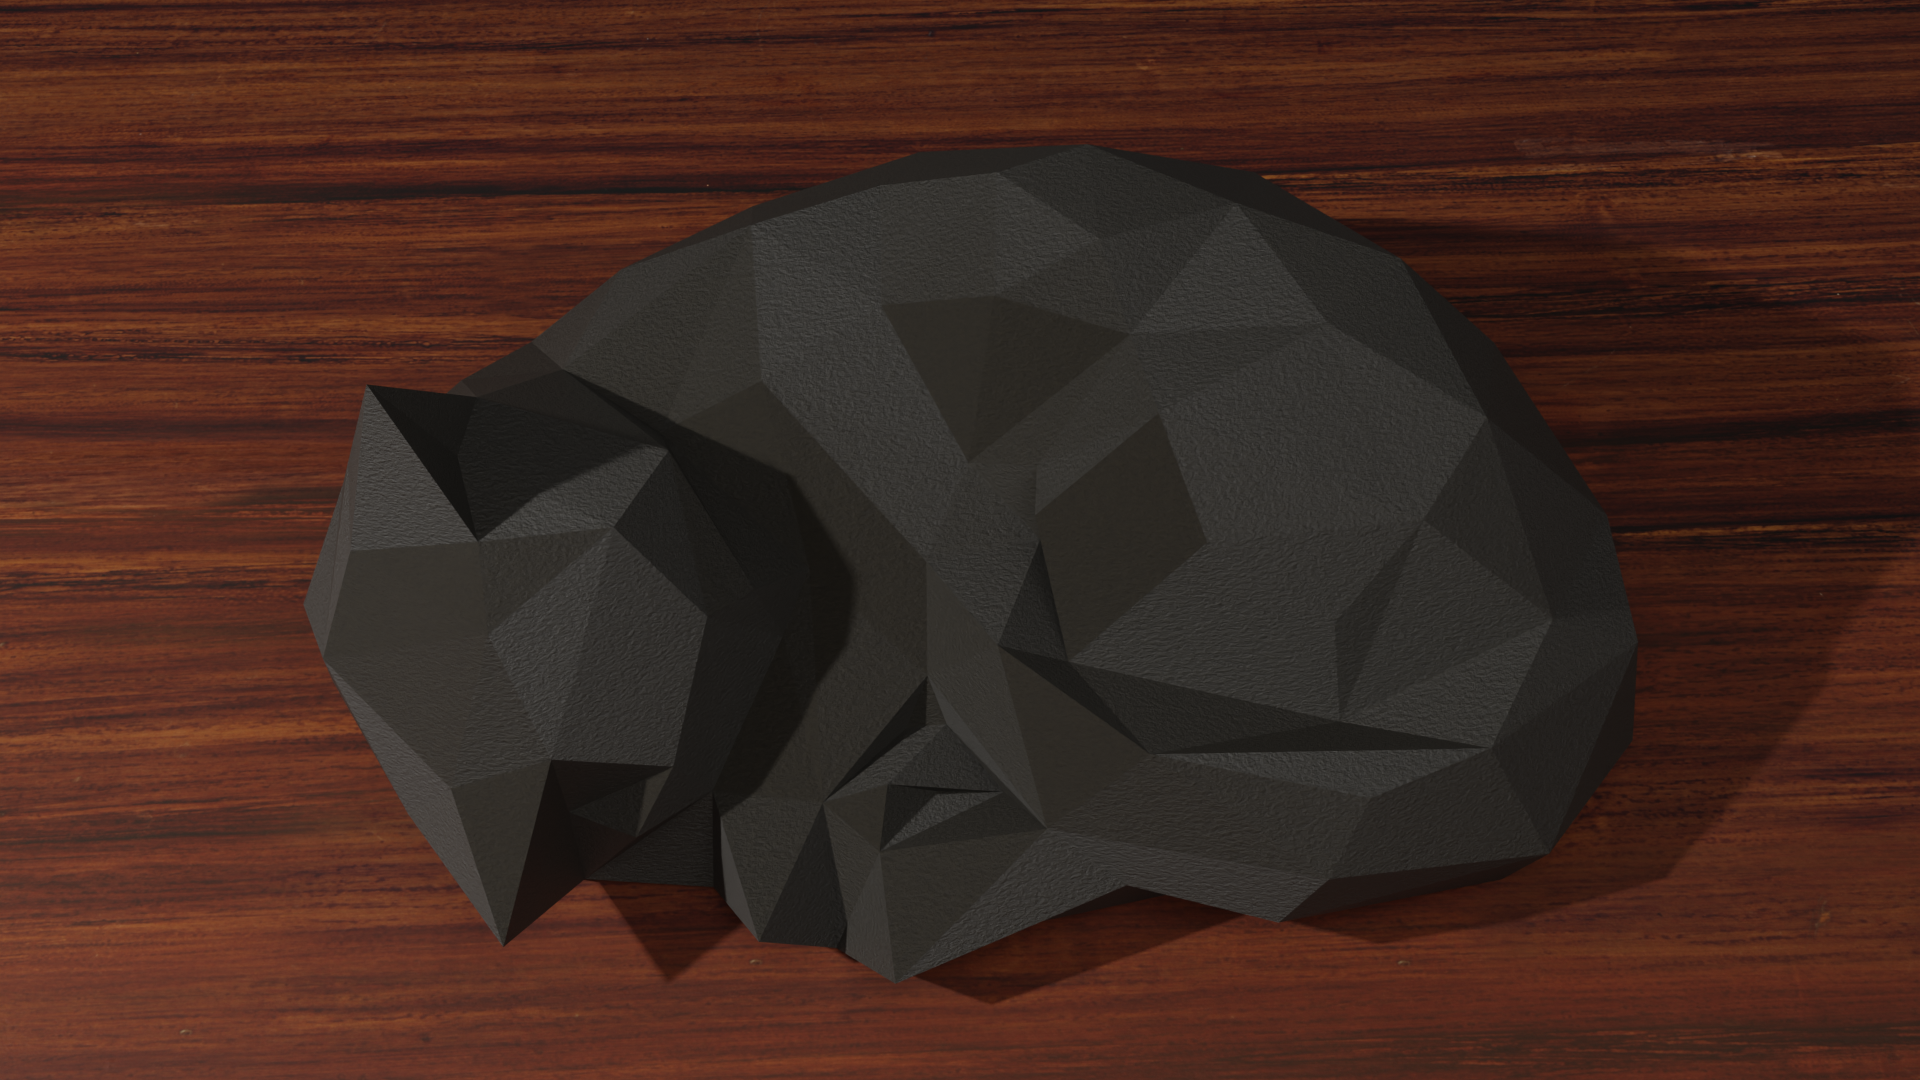
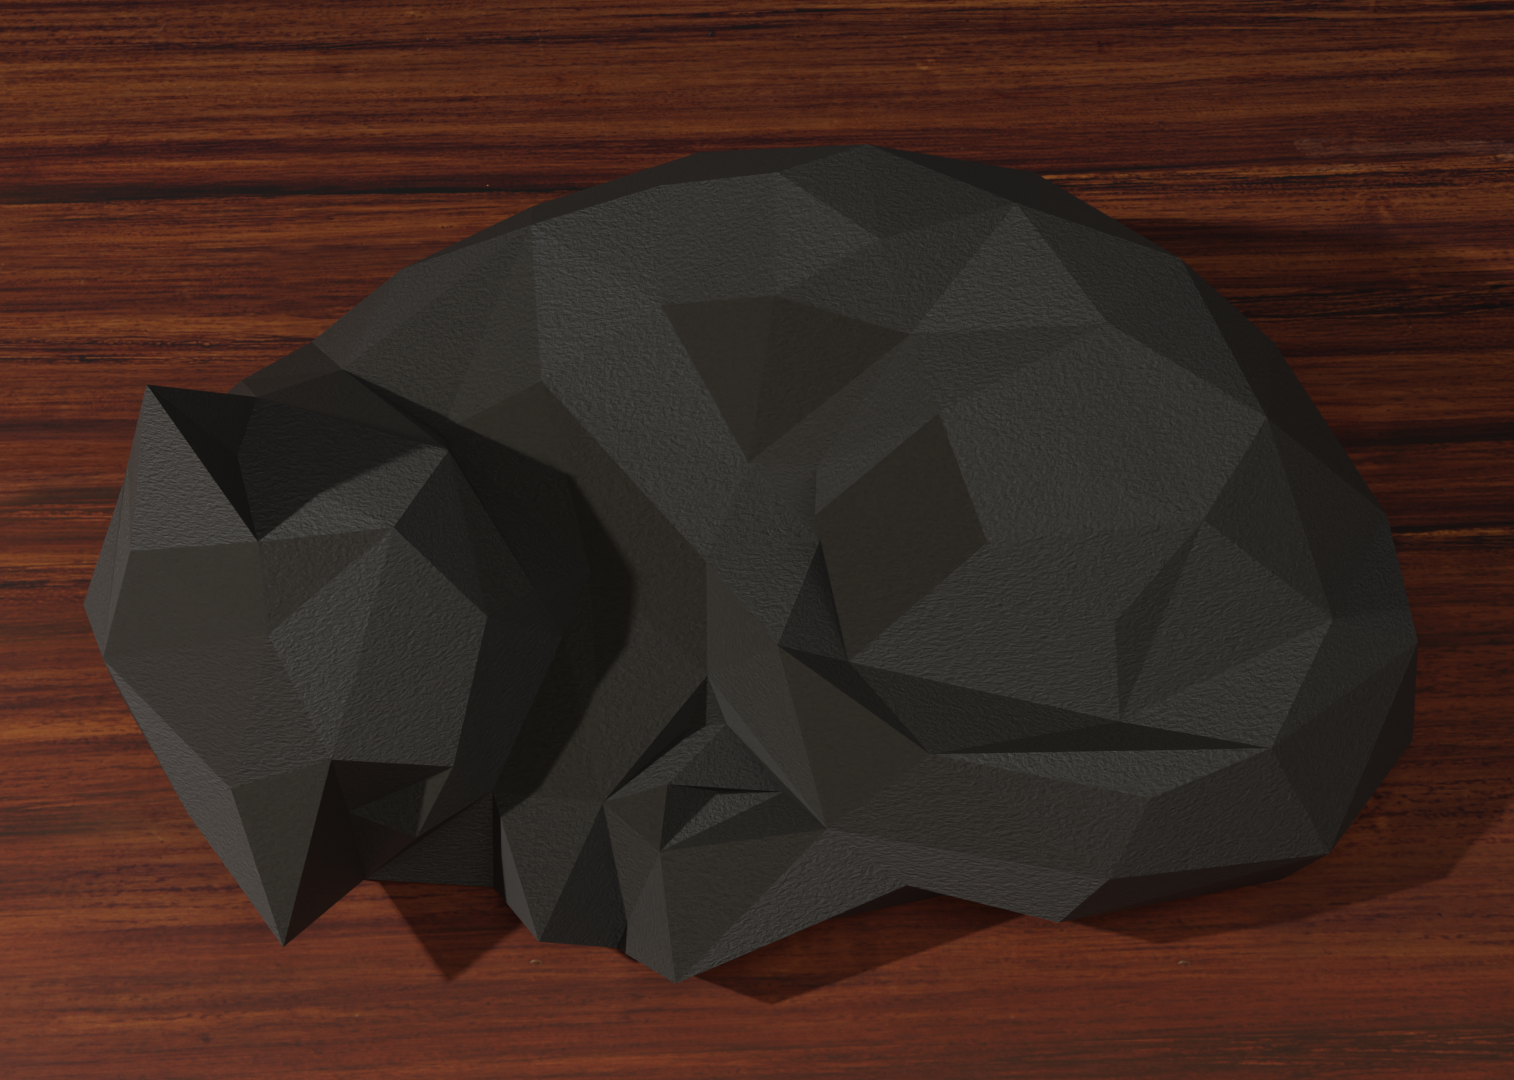
adding missing file and updating the README

diff --git a/README.md b/README.md
@@ -11,6 +11,7 @@ at https://themarcello.github.io/my_website/
 - [x] hover effect on the navbar
 - [ ] robot.txt
 - [ ] group together papercraft
-- [ ] university projects
-- [ ] back to top button
+- [x] university projects
+- [x] back to top button
+- [ ] reorganize content
 - [ ]
